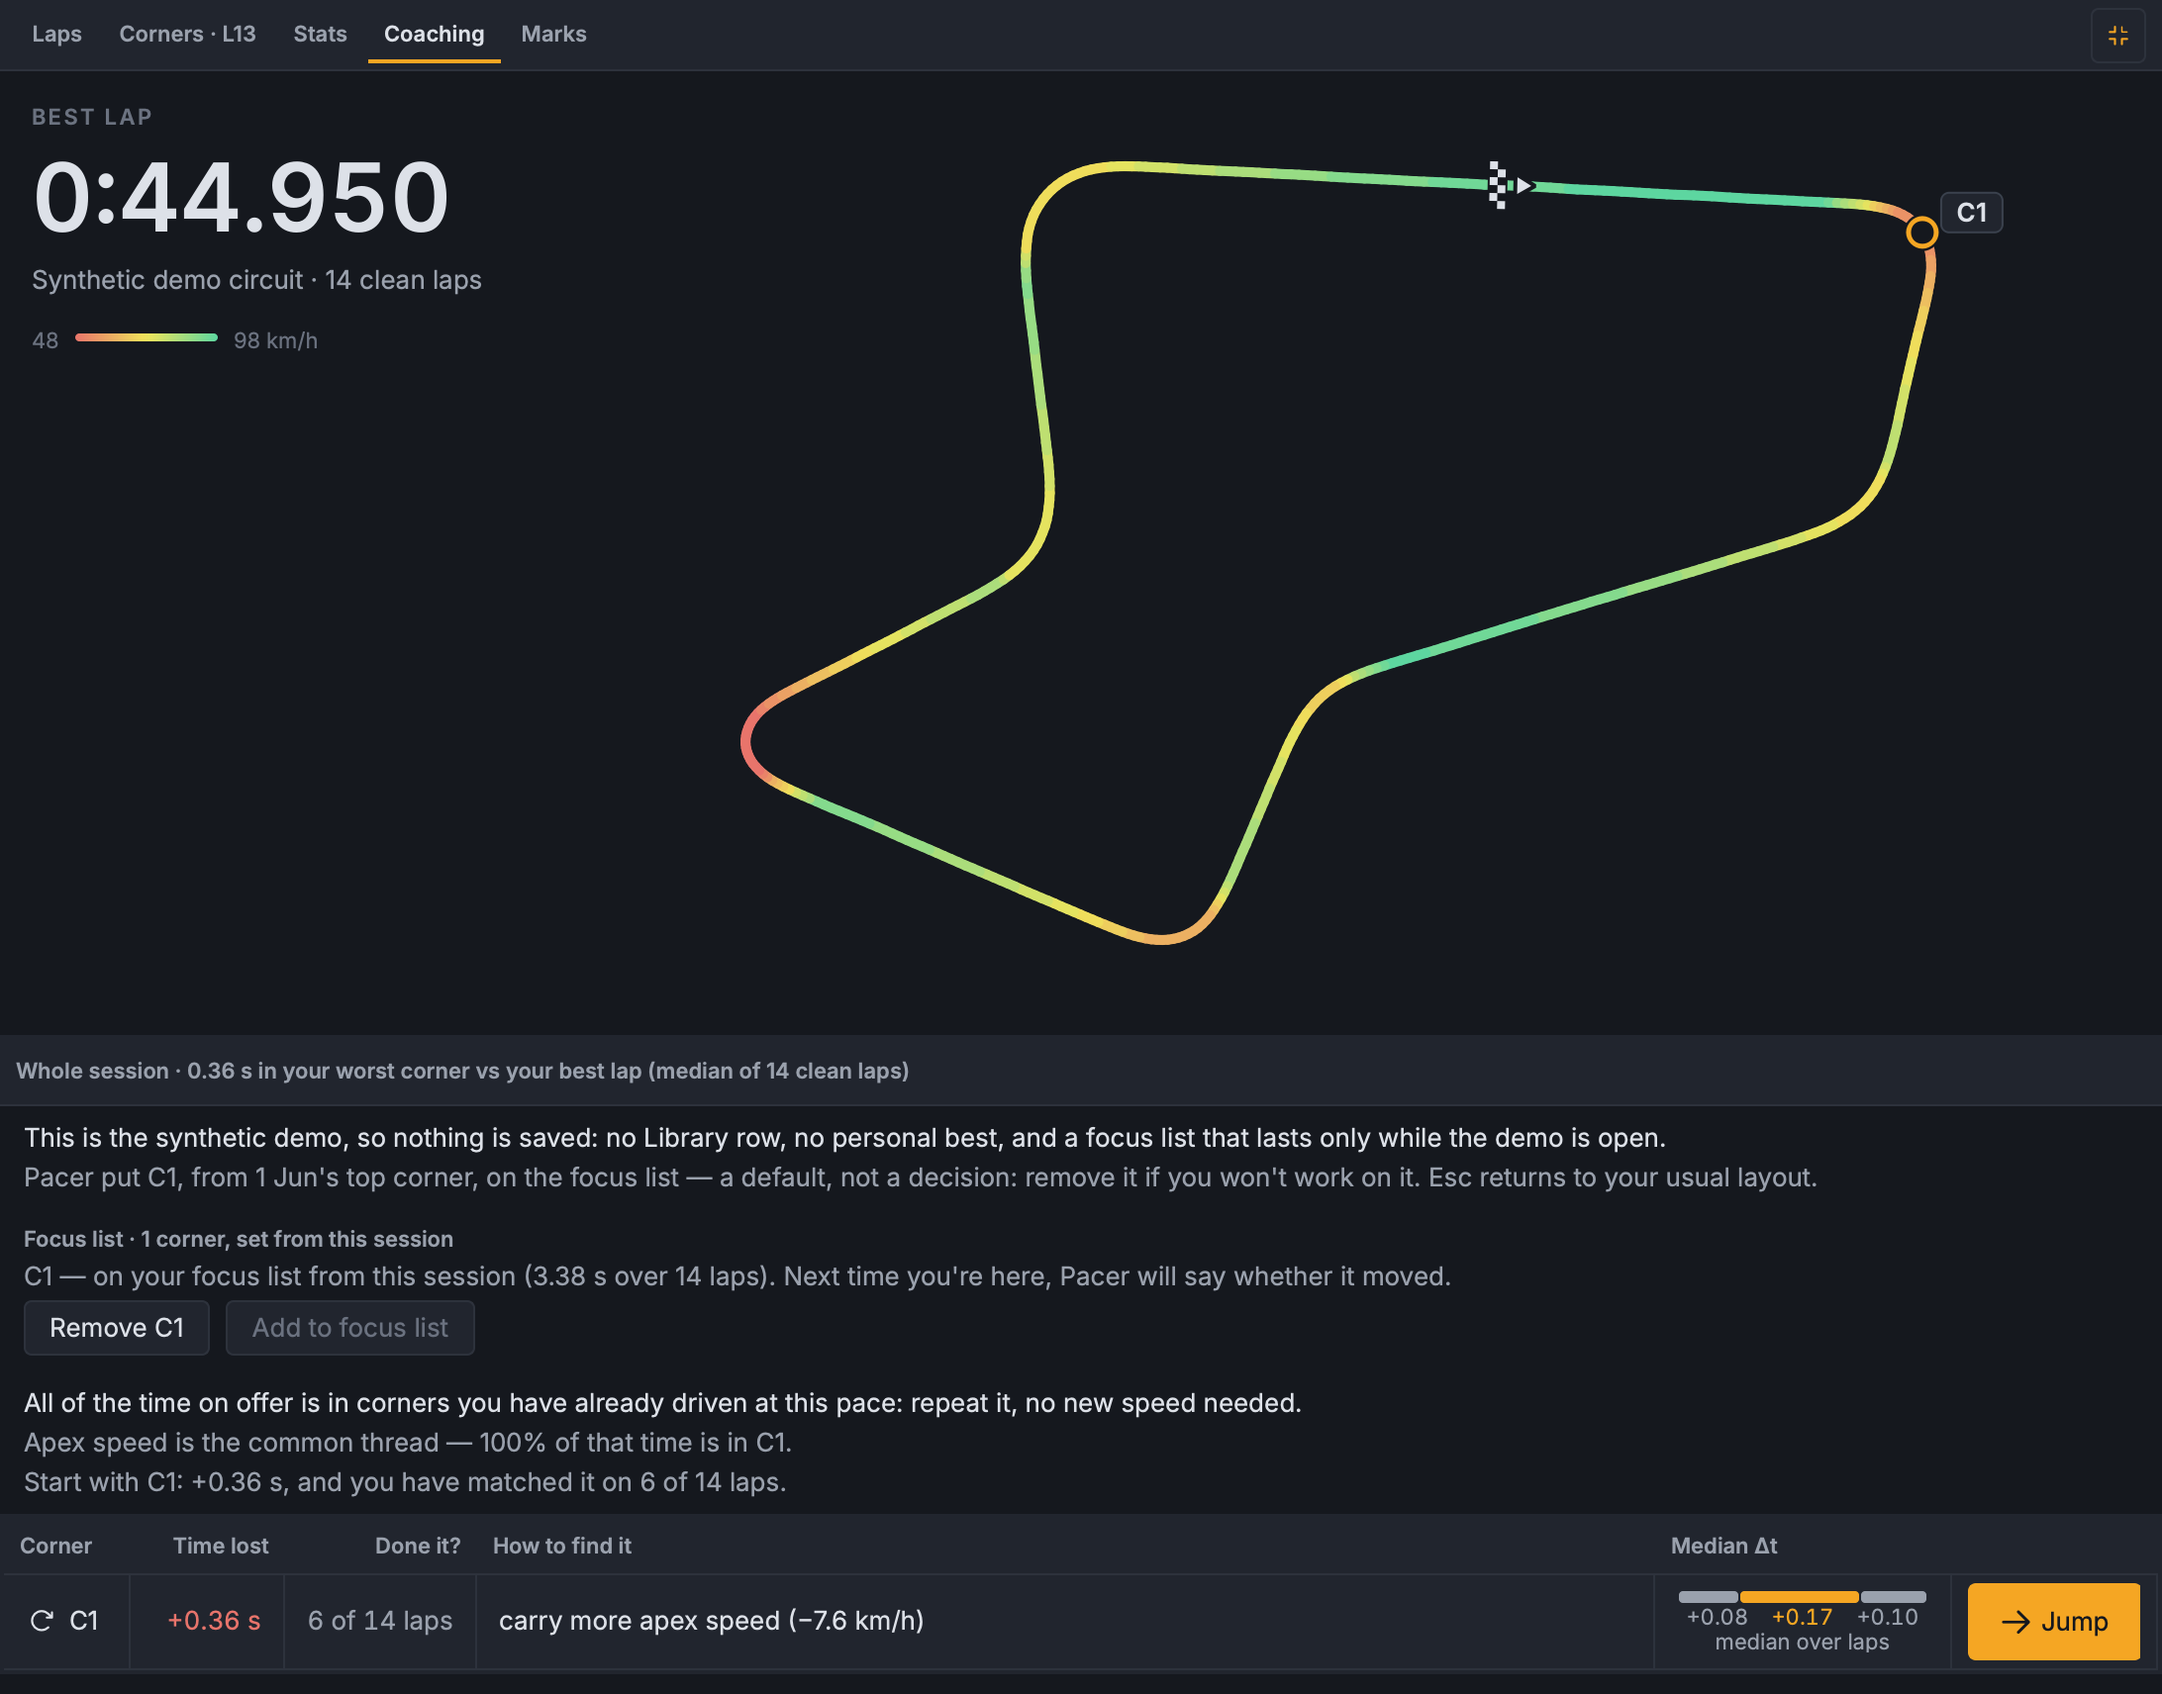
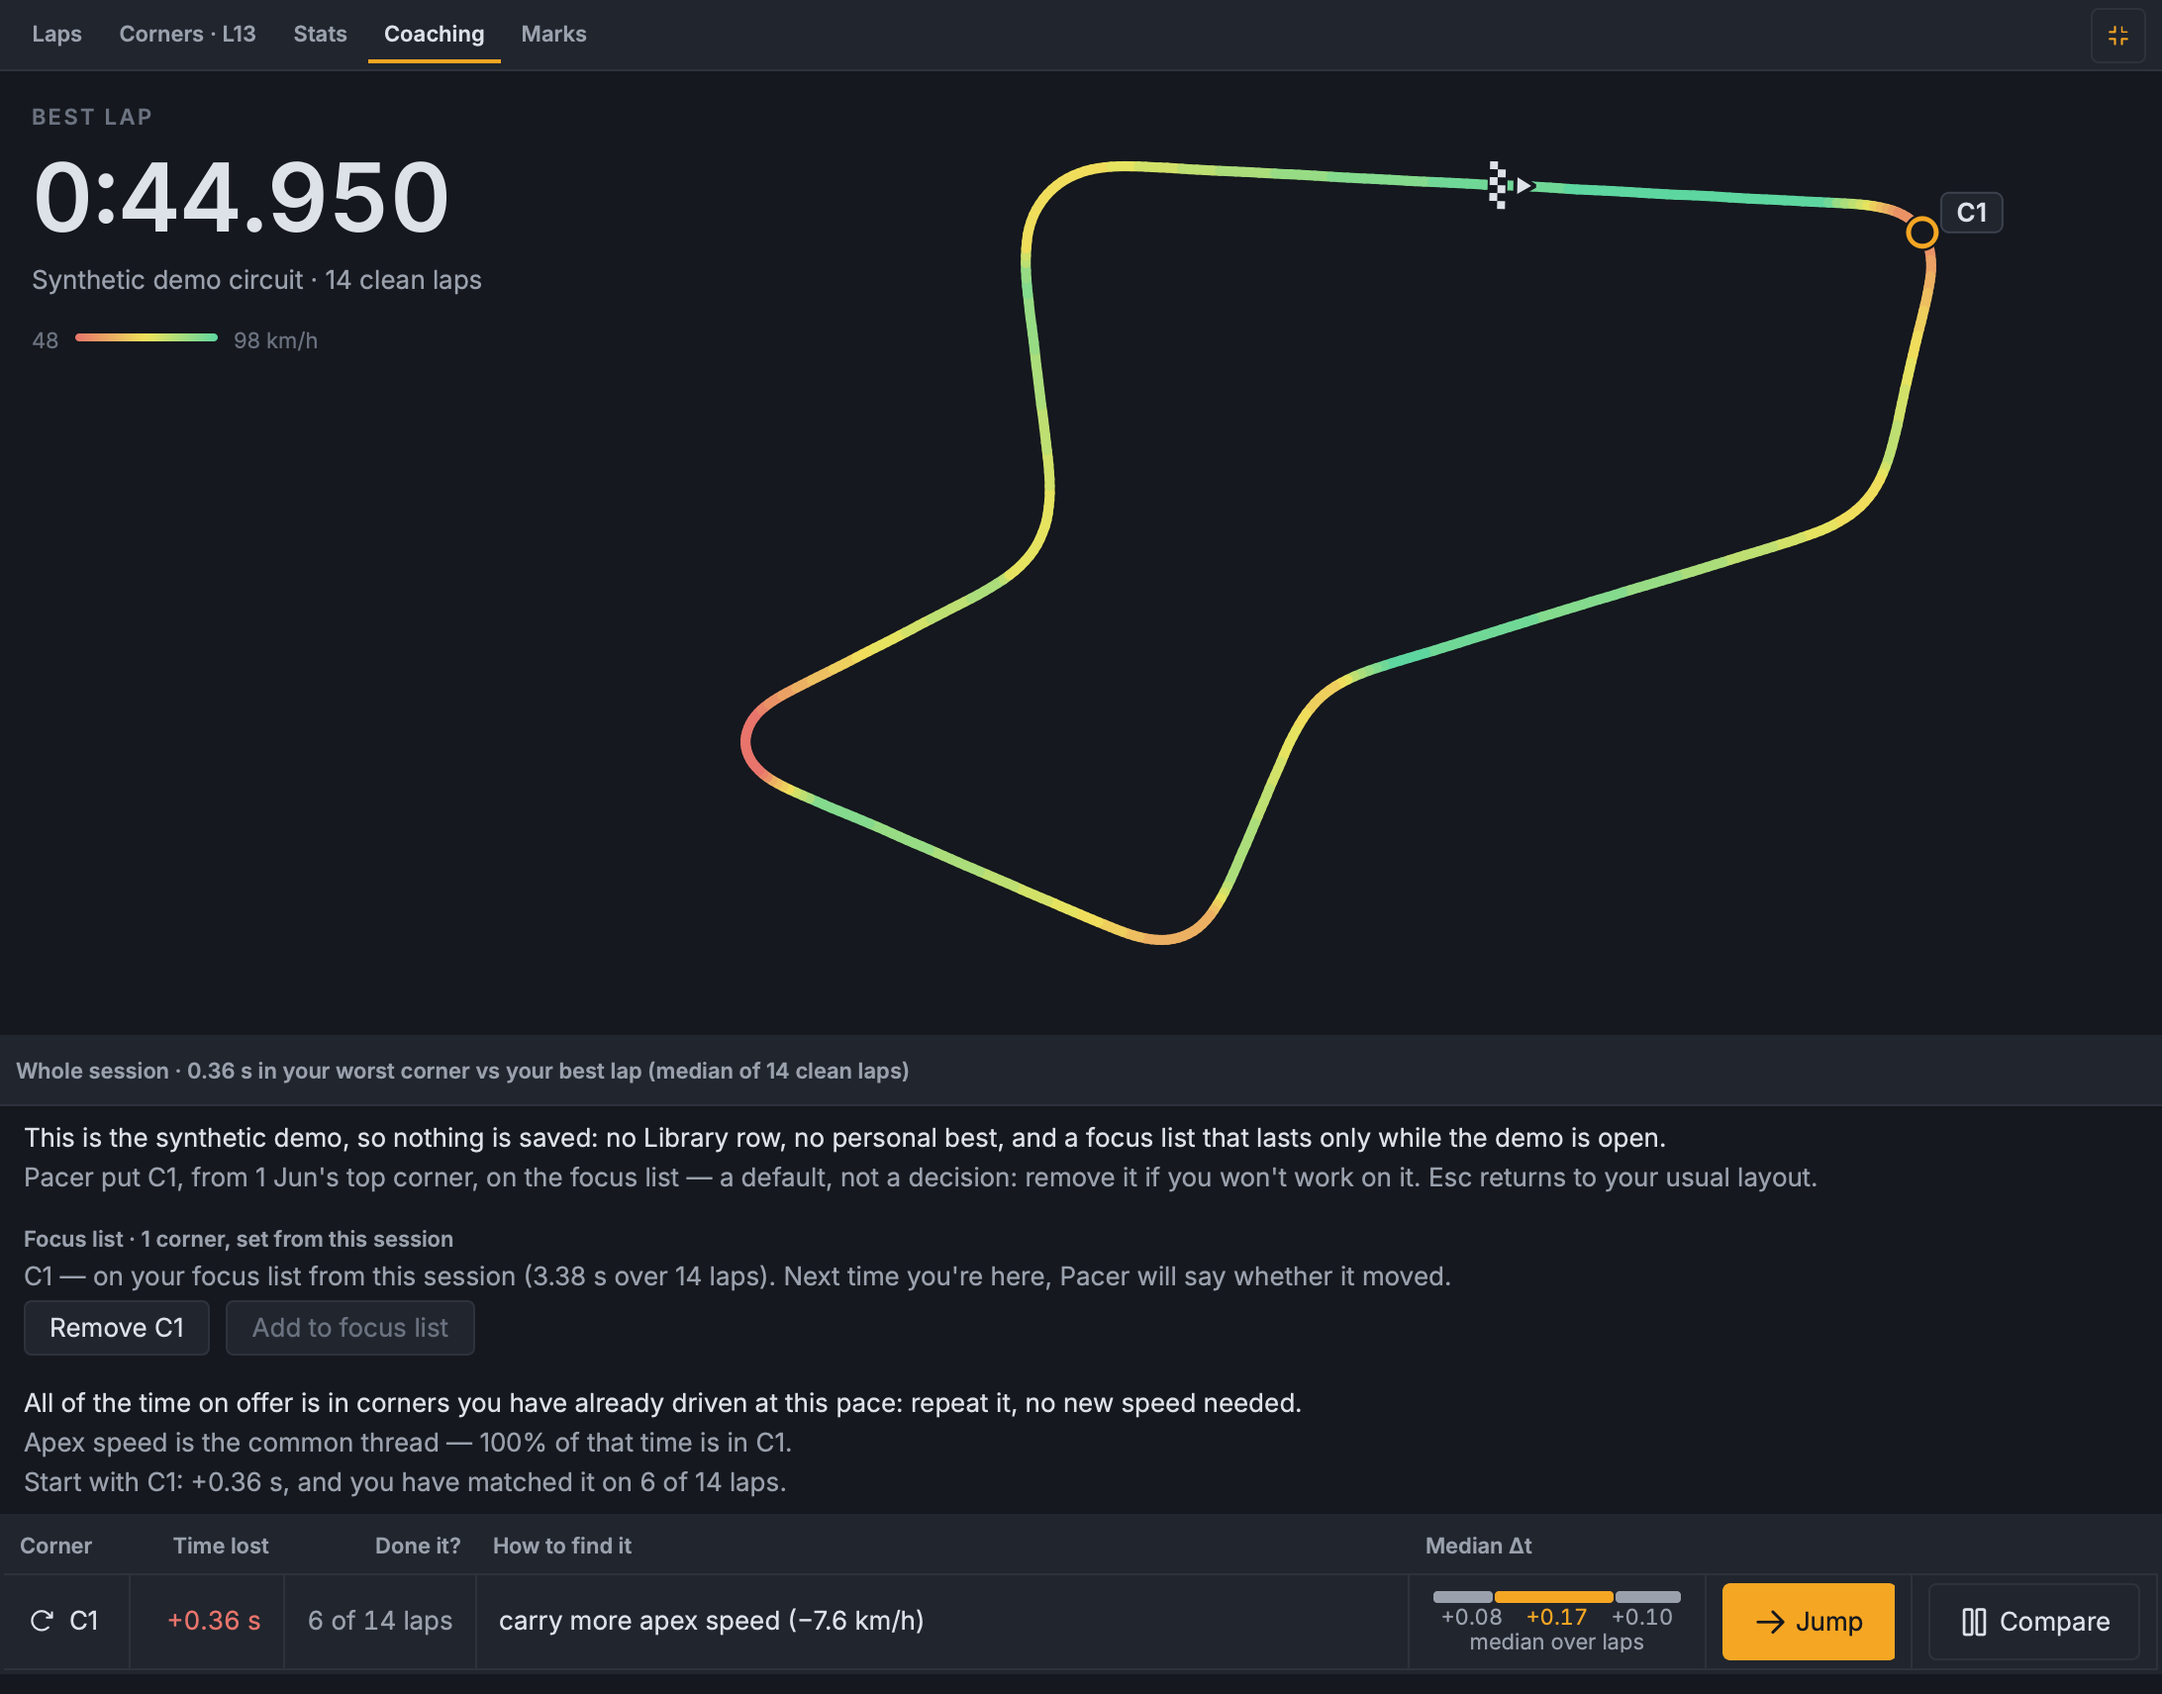
release 0.30.0: re-capture docs/media, renew the footage waivers, true alts
debrief.png (Compare beside Jump) and report.png (level-row words) changed;
hero, og, map, moments, accuracy, quickest and lapstrip re-captured
byte-identical. Waivers of data-trust, ideal-lap, overlay and the clip
renewed at 0.30.0 with their A/B digests.

Changed region(s): [[0.6538, 0.8978, 0.9963, 0.9907]]

diff --git a/docs/index.html b/docs/index.html
@@ -476,7 +476,7 @@
       </figure>
       <figure class="figure">
         <img src="media/report.png" width="2200" height="1600" loading="lazy" decoding="async"
-             alt="The first screen of the synthetic demo's session report: the recording, track, date, 14 laps, best lap 0:44.950 (lap 13) and verified timing; the lap card with +0.30 s to the ideal lap and C1 +0.36 s as the biggest opportunity; and COACHING: 0.36 s in your worst corner, apex speed the common thread with all of that time in C1, its one ranked corner, and the corners held back as level with the best lap or not ranked, each with its reason.">
+             alt="The first screen of the synthetic demo's session report: the recording, track, date, 14 laps, best lap 0:44.950 (lap 13) and verified timing; the lap card with +0.30 s to the ideal lap and C1 +0.36 s as the biggest opportunity; and COACHING: 0.36 s in your worst corner, apex speed the common thread with all of that time in C1, its one ranked corner, and the corners held back, each with its reason: your typical pass level with your best lap, or only your best lap that quick.">
         <figcaption><strong>The session leaves the app as a page.</strong> File ▸ Export ▸ Session report (HTML)… writes one self-contained file that opens like the debrief: the lap card beside the Coaching page's answer, then the Stats page's story. This one is the synthetic demo's, so anyone can make it.</figcaption>
       </figure>
       <figure class="figure">

diff --git a/README.md b/README.md
@@ -102,7 +102,7 @@ lowers the ideal too, so part of the gap is timing luck.*
   recording's first open, once its timing is trusted, lands on it as a **debrief** and puts its top
   corners on the track's **focus list**, for the next session there to re-measure.
 
-<img src="docs/media/debrief.png" width="880" alt="The synthetic demo's first open, on its debrief: the Coaching page full-window, led by the best lap's time, large, beside its speed-coloured line with its focus corner ringed; under it a first line saying nothing is saved, C1, the one corner Pacer put on the focus list, with its baseline and a Remove, and the one ranked corner with its reason and a Jump to the video">
+<img src="docs/media/debrief.png" width="880" alt="The synthetic demo's first open, on its debrief: the Coaching page full-window, led by the best lap's time, large, beside its speed-coloured line with its focus corner ringed; under it a first line saying nothing is saved, C1, the one corner Pacer put on the focus list, with its baseline and a Remove, and the one ranked corner with its reason, a Jump to the video and a Compare of your typical pass with your best lap's there">
 
 - **Your quickest pass through each corner, one click from the video.** Corners ▸ **Quickest
   passes** lists each corner's quickest time and the lap it was on; a click plays that pass from
@@ -134,7 +134,7 @@ this still says "0% of moving fixes rejected".*
   every lap of the session on one image, and the overlay comes in two styles, Classic or
   Broadcast, with a ghost of your best lap and corner cards as extras you tick.
 
-<img src="docs/media/report.png" width="660" alt="The first screen of the synthetic demo's session report, as File ▸ Export ▸ Session report (HTML)… writes it: the recording, track, date, 14 laps, best lap 0:44.950 (lap 13) and verified timing; the lap card with its +0.30 s to the ideal lap and C1 +0.36 s as the biggest opportunity; and COACHING: 0.36 s in your worst corner, apex speed the common thread with all of that time in C1, its one ranked corner, and the corners held back as level with the best lap or not ranked, each with its reason">
+<img src="docs/media/report.png" width="660" alt="The first screen of the synthetic demo's session report, as File ▸ Export ▸ Session report (HTML)… writes it: the recording, track, date, 14 laps, best lap 0:44.950 (lap 13) and verified timing; the lap card with its +0.30 s to the ideal lap and C1 +0.36 s as the biggest opportunity; and COACHING: 0.36 s in your worst corner, apex speed the common thread with all of that time in C1, its one ranked corner, and the corners held back, each with its reason: your typical pass level with your best lap, or only your best lap that quick">
 
 <img src="docs/media/overlay.jpg" width="880" alt="A frame of a real exported overlay video on Sandown 3h: LAP 23, its elapsed 0:19.799 and a live Δ +0.05 burned into the top-left of the GoPro footage, a g-meter reading 0.3 g top-right, a mini track map bottom-right and 57 km/h bottom-left">
 

diff --git a/docs/DECISIONS.md b/docs/DECISIONS.md
@@ -2802,10 +2802,12 @@ write each decision down, and keep going." Each item below is recorded 2026-11-1
     theme sentence. True, but it does not say the typical pass sits within 0.07 s of the
     next-quickest, which is why it is held back; the row says that.
 - **The media.** Re-captured at 0.30.0 from the pinned demo: `debrief.png` changed (#744: Compare
-  beside Jump), `report.png` changed (#742's level-row words); `hero.png` and `og.png` changed by
-  a 7 px shift of the Δ chart's left axis that a capture from v0.29.0's own `studio/` reproduces
-  byte for byte today, so it is the render environment, not this release; `map.png`,
-  `moments.png`, `accuracy.png`, `quickest.png` and `lapstrip.png` are byte-identical. The
+  beside Jump), `report.png` changed (#742's level-row words); `hero.png`, `og.png`, `map.png`,
+  `moments.png`, `accuracy.png`, `quickest.png` and `lapstrip.png` are byte-identical (one
+  `lapstrip.png` capture differed in the known 442 pixels, a second reproduced the committed file).
+  Captured inside the agent sandbox, `hero.png` and `og.png` came out with the Δ chart's left axis
+  7 px narrower, from v0.29.0's own `studio/` too; outside it they reproduce the committed bytes,
+  so the committed pixels are kept. The
   waivers of `data-trust.png`, `ideal-lap.png`, `overlay.jpg`, `best-lap.jpg` and `best-lap.mp4`
   are renewed, their captions' capture versions unchanged: demo renders of the data-trust and
   ideal-lap shots are byte-identical to v0.29.0's, and the demo export is byte-identical.
@@ -2826,8 +2828,7 @@ write each decision down, and keep going." Each item below is recorded 2026-11-1
   - **CI machine stalls**: in two waves three different tests timed out once each and passed on
     re-run (`test_export_polish` at import, `test_studio_features` "both loads never settled",
     `test_export_pickers`); a reliability lane is planned.
-  - **`og.png` changed bytes** (the 7 px axis shift above); the social preview on GitHub is his to
-    re-upload, and nothing it shows is different in substance.
+  - **`og.png` is unchanged**, so the social preview needs no re-upload for this release.
 - **Open for the owner** (carried from section 32, re-checked against 0.30.0's diff, which touches
   none of them): a brake point can move by several metres from a hole of two fixes at either rate
   (section 43); the stuck-row memory is not persisted; the lap strip's ⚠ best cue is drawn by no

diff --git a/docs/FIRST_LAP.md b/docs/FIRST_LAP.md
@@ -70,7 +70,7 @@ saying the two days were alike.
 The demo lands here on every open, and keeps nothing: no Library row, no personal best, and a focus
 list that lasts only while the demo is open.
 
-![The synthetic demo's debrief: the Coaching page full-window, led by the best lap's time beside its speed-coloured line with its focus corner ringed; under it a first line saying nothing is saved, C1, the one corner Pacer put on the focus list, with its baseline and a Remove, and the one ranked corner with its reason and a Jump to the video](media/debrief.png)
+![The synthetic demo's debrief: the Coaching page full-window, led by the best lap's time beside its speed-coloured line with its focus corner ringed; under it a first line saying nothing is saved, C1, the one corner Pacer put on the focus list, with its baseline and a Remove, and the one ranked corner with its reason, a Jump to the video and a Compare of your typical pass with your best lap's there](media/debrief.png)
 
 ## 4 · Read the lap
 
